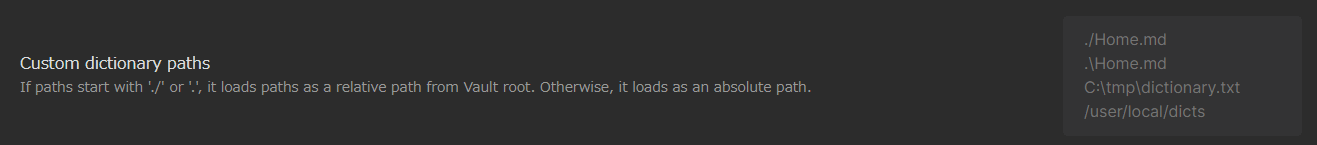
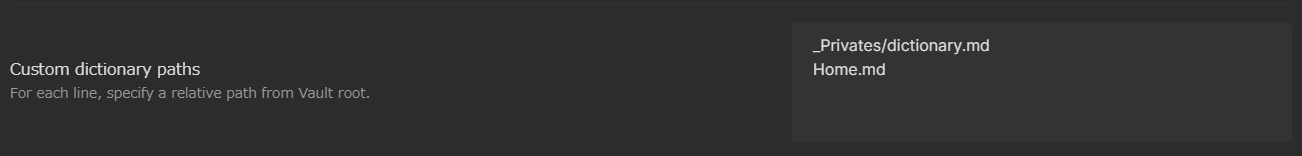
Fix a bug that can't load custom dictionaries on mobile (Android/iOS) (close #21)

diff --git a/src/CustomDictionaryService.ts b/src/CustomDictionaryService.ts
@@ -16,23 +16,16 @@ function lineToWord(line: string): Word {
   };
 }
 
-async function loadWords(path: string): Promise<Word[]> {
-  const buf = await FileSystemAdapter.readLocalFile(path);
-  const str = new TextDecoder().decode(buf);
-  return str
-    .split(/(\r\n|\n)/)
-    .filter((x) => x)
-    .map(lineToWord);
-}
-
 export class CustomDictionaryService {
   words: Word[] = [];
 
   private app: App;
+  private fileSystemAdapter: FileSystemAdapter;
   private paths: string[];
 
   constructor(app: App, paths: string[]) {
     this.app = app;
+    this.fileSystemAdapter = app.vault.adapter as FileSystemAdapter;
     this.paths = paths;
   }
 
@@ -44,18 +37,18 @@ export class CustomDictionaryService {
     this.paths = paths;
   }
 
-  async refreshCustomTokens(): Promise<void> {
-    const fileSystemAdapter = this.app.vault.adapter as FileSystemAdapter;
+  async loadWords(path: string): Promise<Word[]> {
+    return (await this.fileSystemAdapter.read(path))
+      .split(/(\r\n|\n)/)
+      .filter((x) => x)
+      .map(lineToWord);
+  }
 
+  async refreshCustomTokens(): Promise<void> {
     this.words = [];
     for (const path of this.paths) {
       try {
-        const isRelative = path.startsWith("./") || path.startsWith(".\\");
-        const absolutePath = isRelative
-          ? fileSystemAdapter.getFullPath(path)
-          : path;
-
-        const words = await loadWords(absolutePath);
+        const words = await this.loadWords(path);
         words.forEach((x) => this.words.push(x));
       } catch (e) {
         // noinspection ObjectAllocationIgnored

diff --git a/src/settings.ts b/src/settings.ts
@@ -92,13 +92,11 @@ export class VariousComplementsSettingTab extends PluginSettingTab {
 
     new Setting(containerEl)
       .setName("Custom dictionary paths")
-      .setDesc(
-        "If paths start with './' or '.\\', it loads paths as a relative path from Vault root. Otherwise, it loads as an absolute path."
-      )
+      .setDesc("For each line, specify a relative path from Vault root.")
       .addTextArea((tac) => {
         const el = tac
           .setValue(this.plugin.settings.customDictionaryPaths)
-          .setPlaceholder("./dictionary.md")
+          .setPlaceholder("dictionary.md")
           .onChange(async (value) => {
             this.plugin.settings.customDictionaryPaths = value;
             await this.plugin.saveSettings();

diff --git a/README.md b/README.md
@@ -35,7 +35,7 @@ You can add custom dictionaries from settings as follows.
 
 #### Definitions of a dictionary file
 
-You can define a word for each line in dictionary files.
+You can define a word for each line in dictionary files~~~~.
 
 | Col1 | Col2        | Col3 and later |
 | ---- | ----------- | -------------- |
